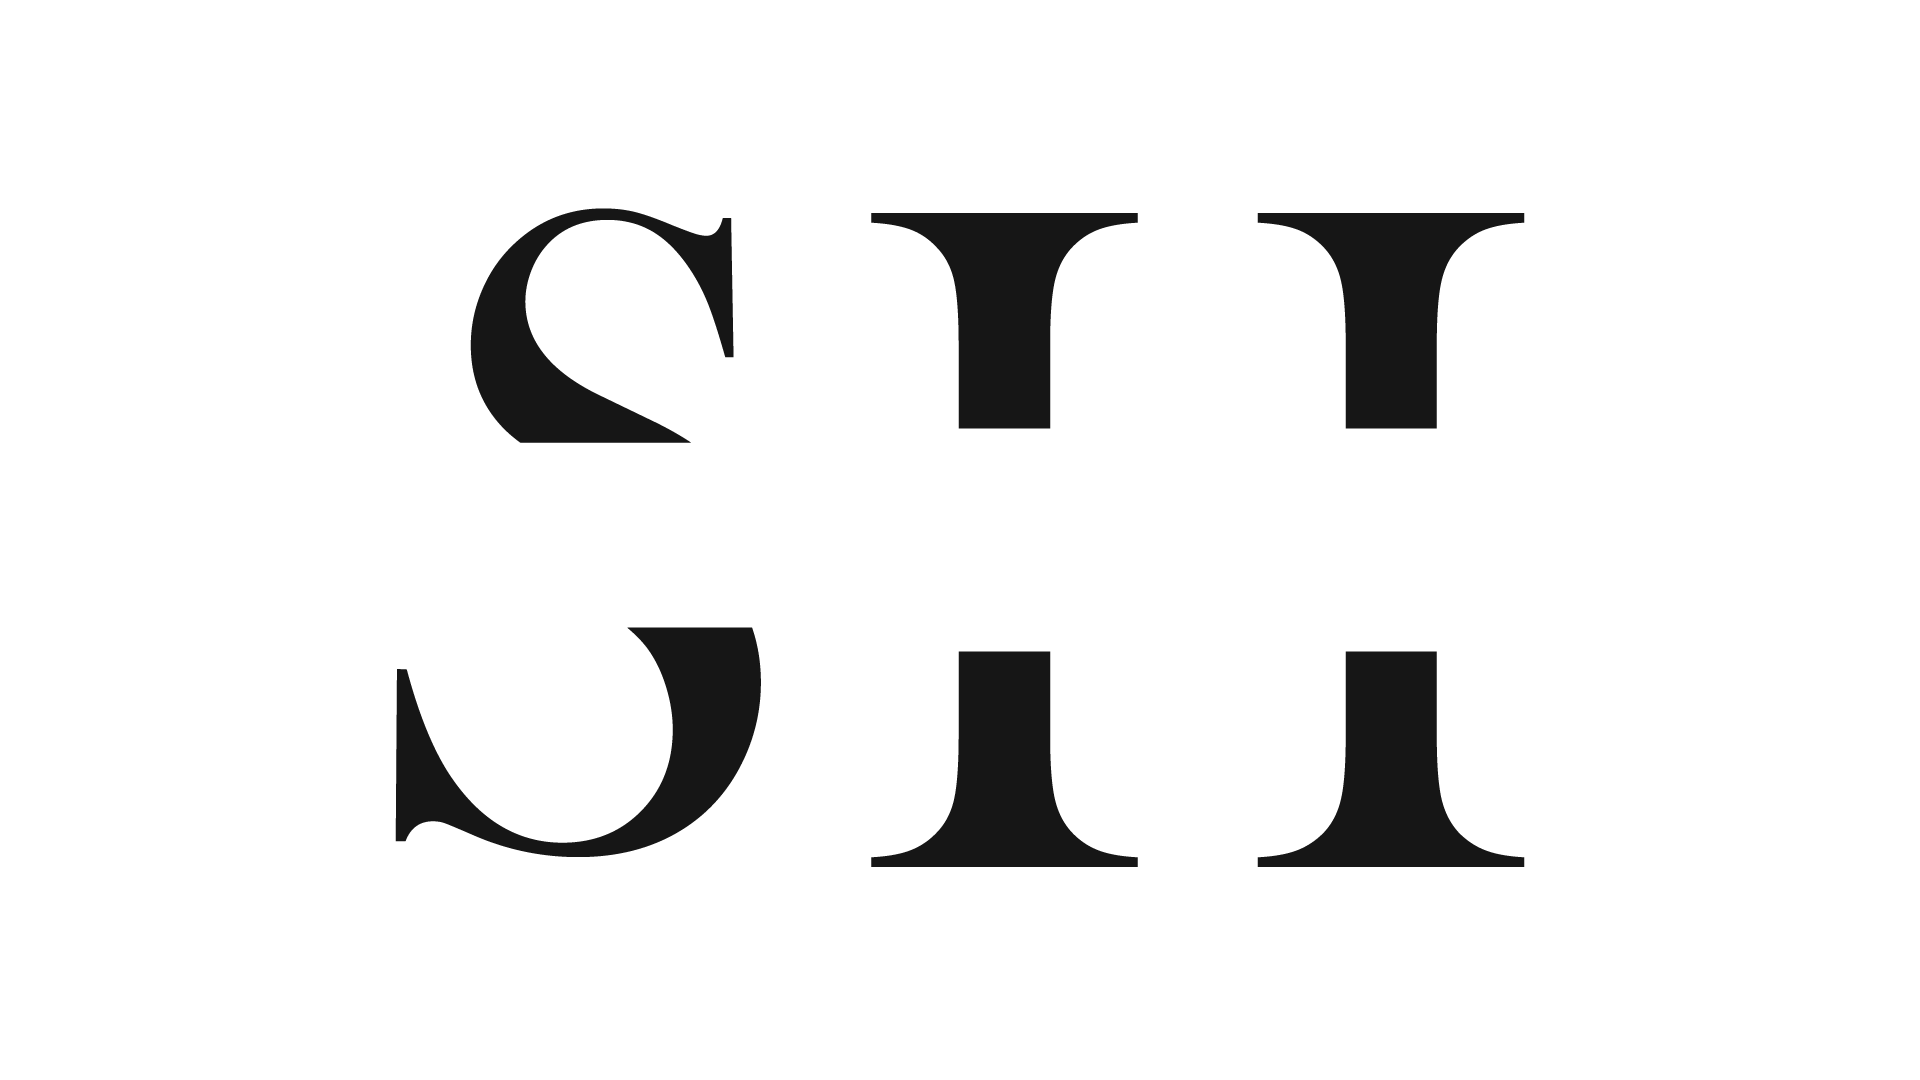
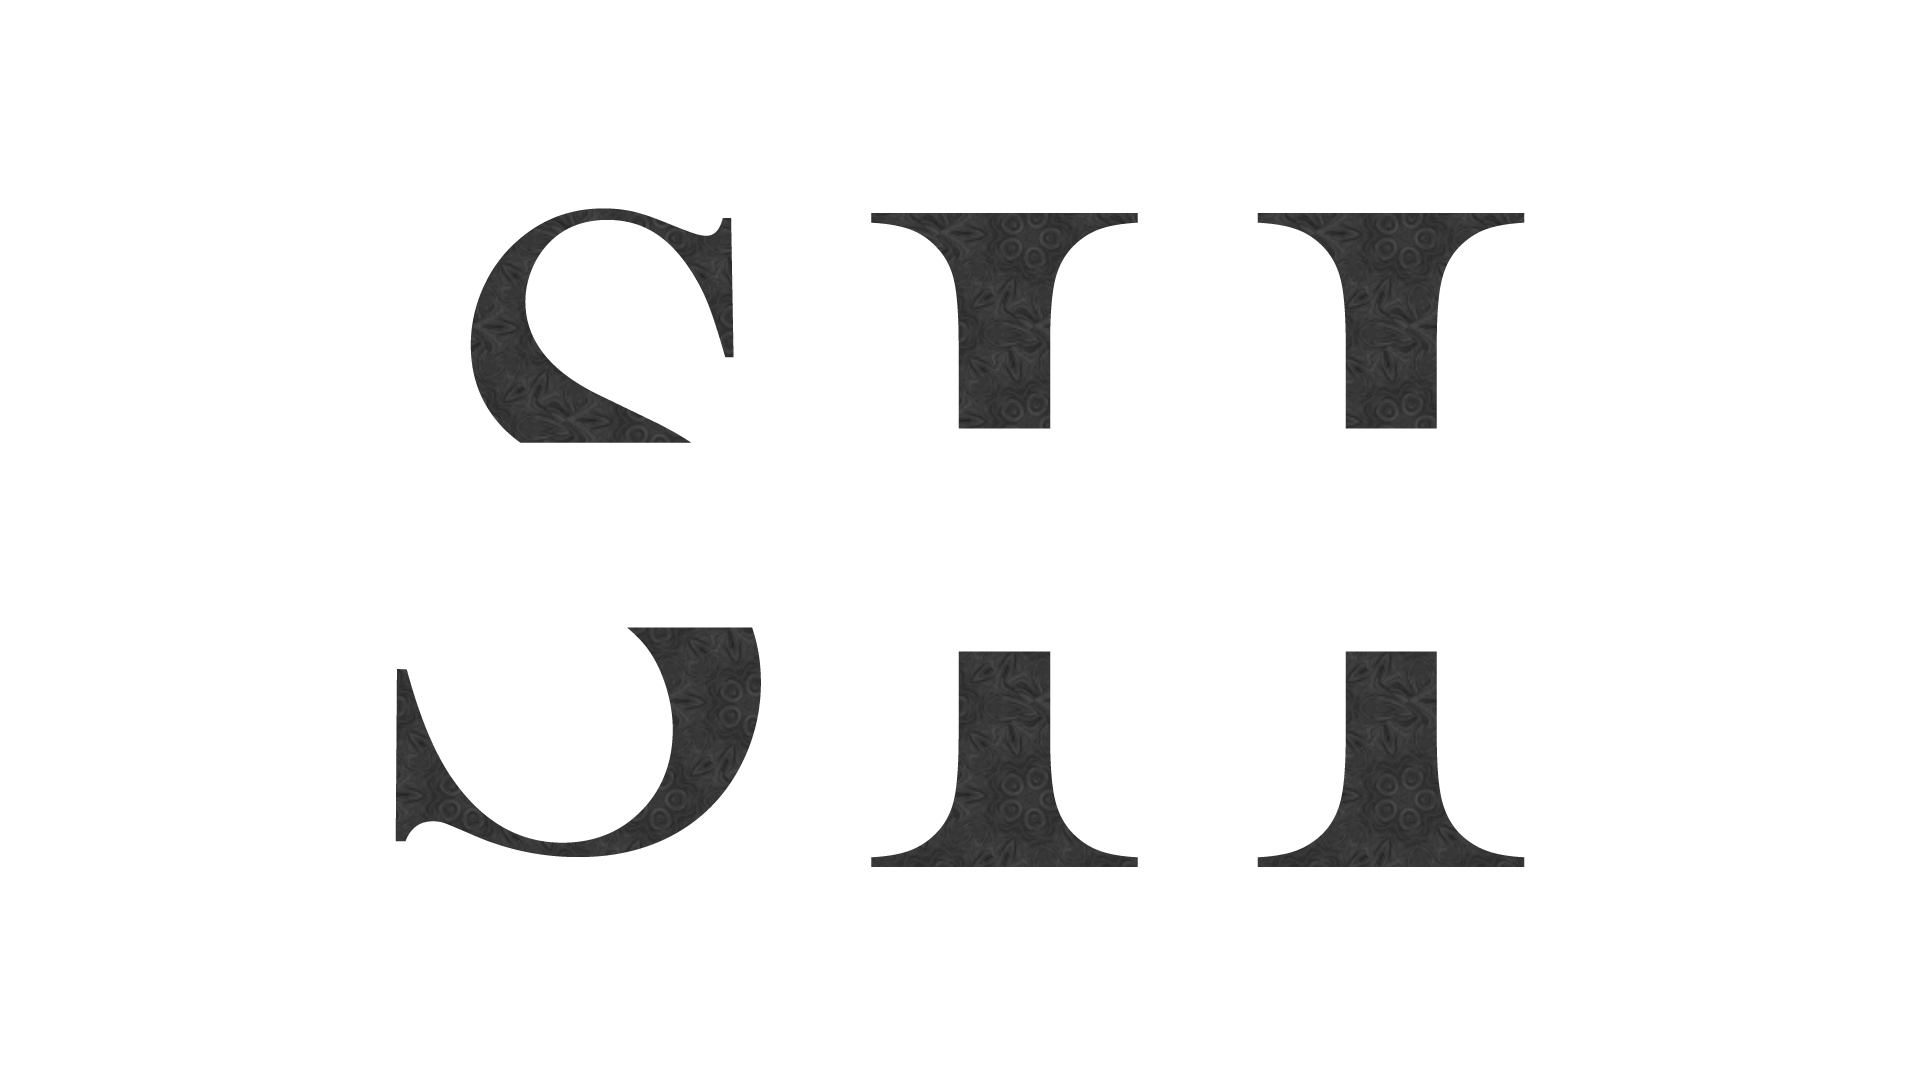
UI수정 / 인트로 배경 색상 변경, 배경 이미지 변경

diff --git a/src/styles/pages/_intro.scss b/src/styles/pages/_intro.scss
@@ -2,7 +2,7 @@
   width: 100%;
   height: 100%;
   display: flex;
-  background-color: #000000;
+  background-color: #1a1a1a;
   background-image: url("../../images/intro_bg.png");
   background-repeat: no-repeat;
   background-position: center;
